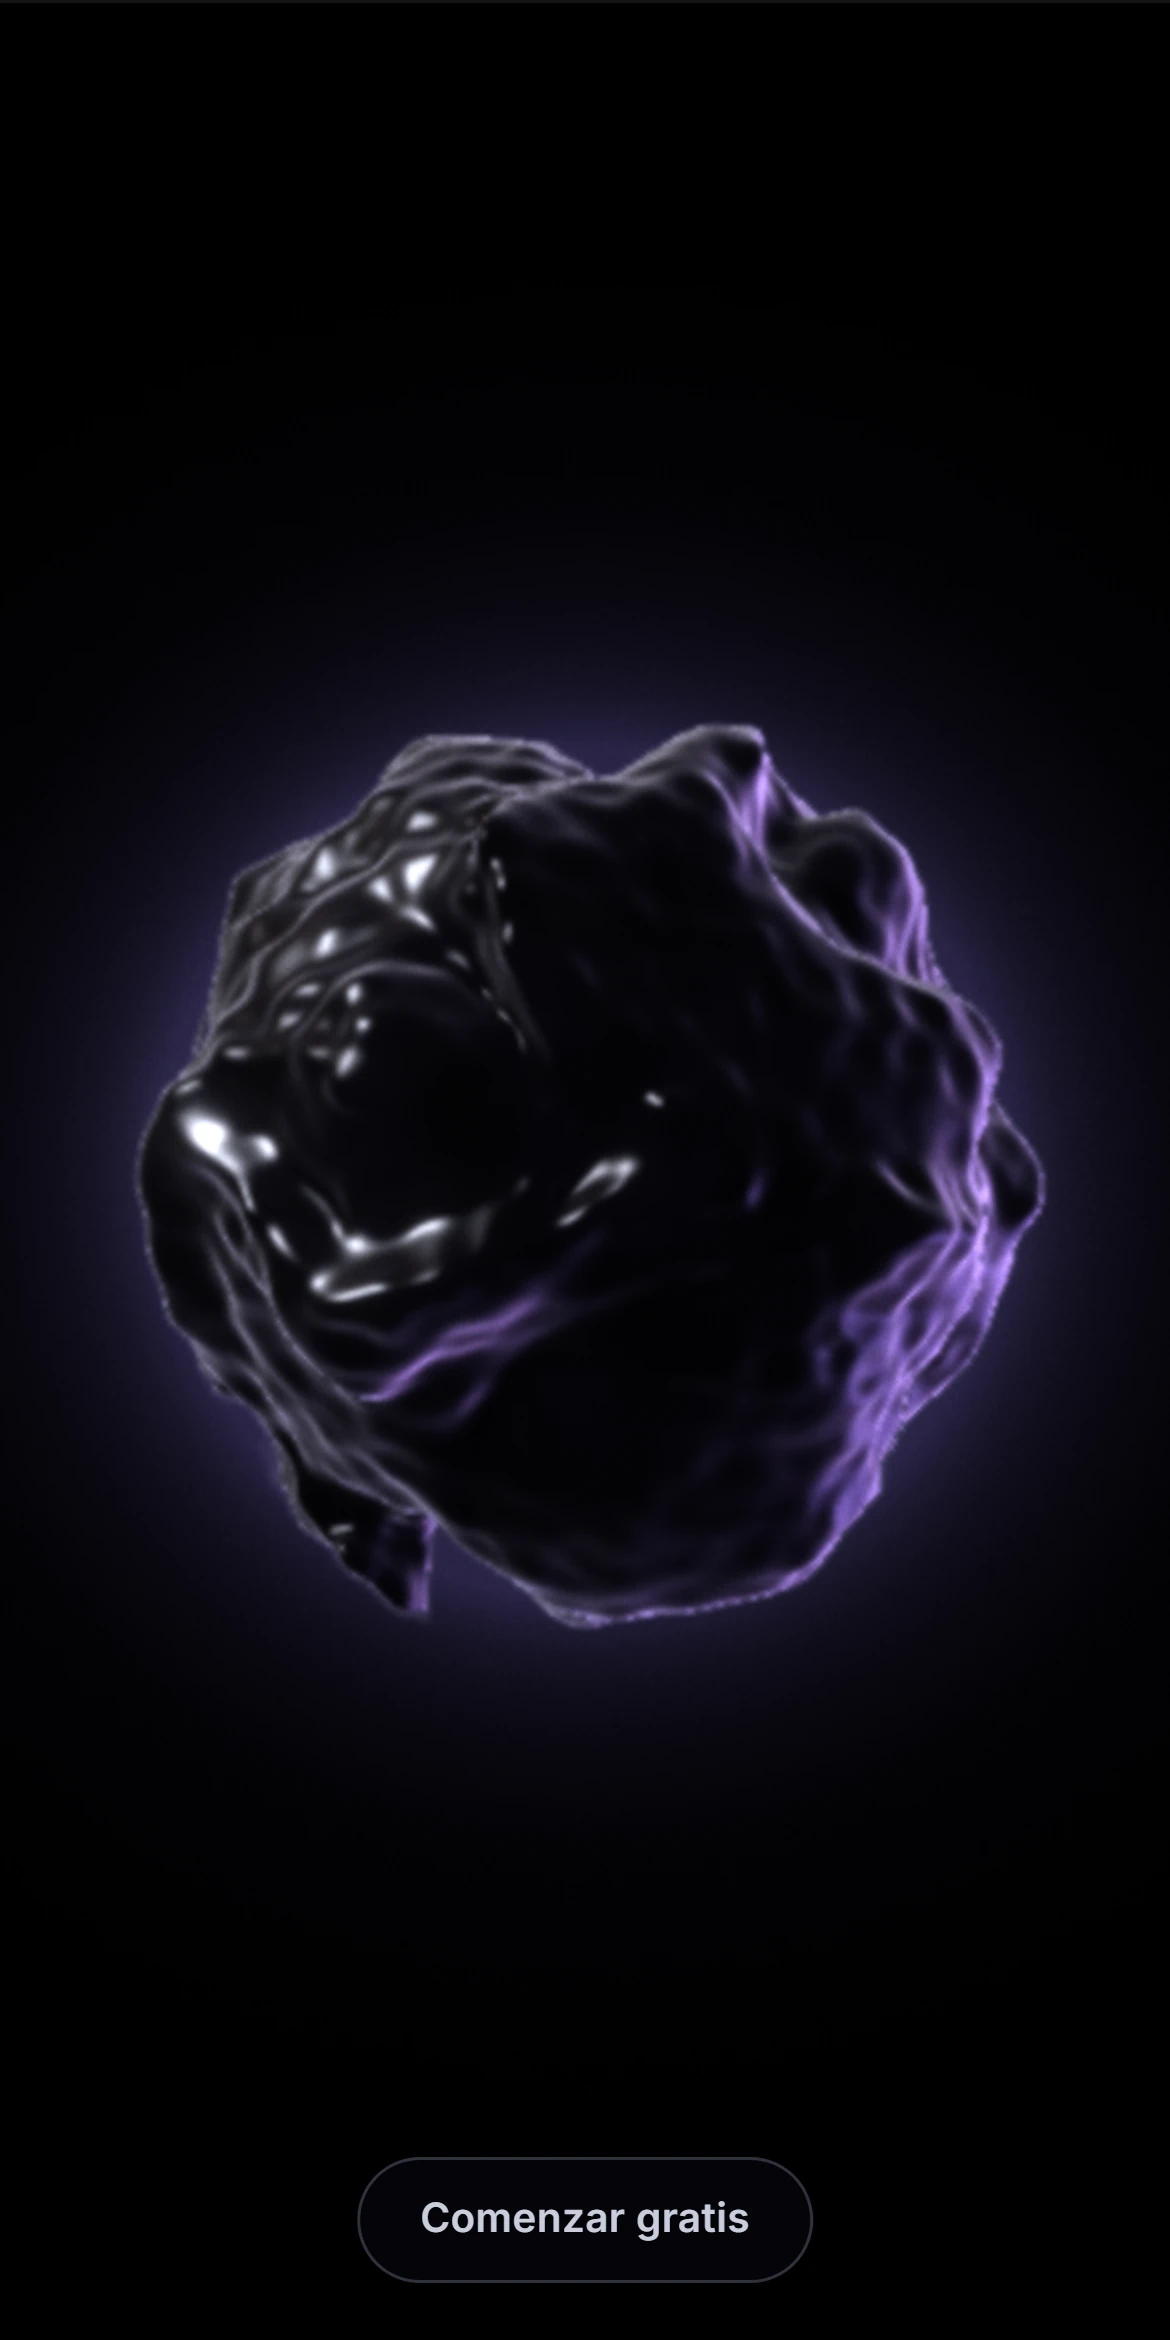
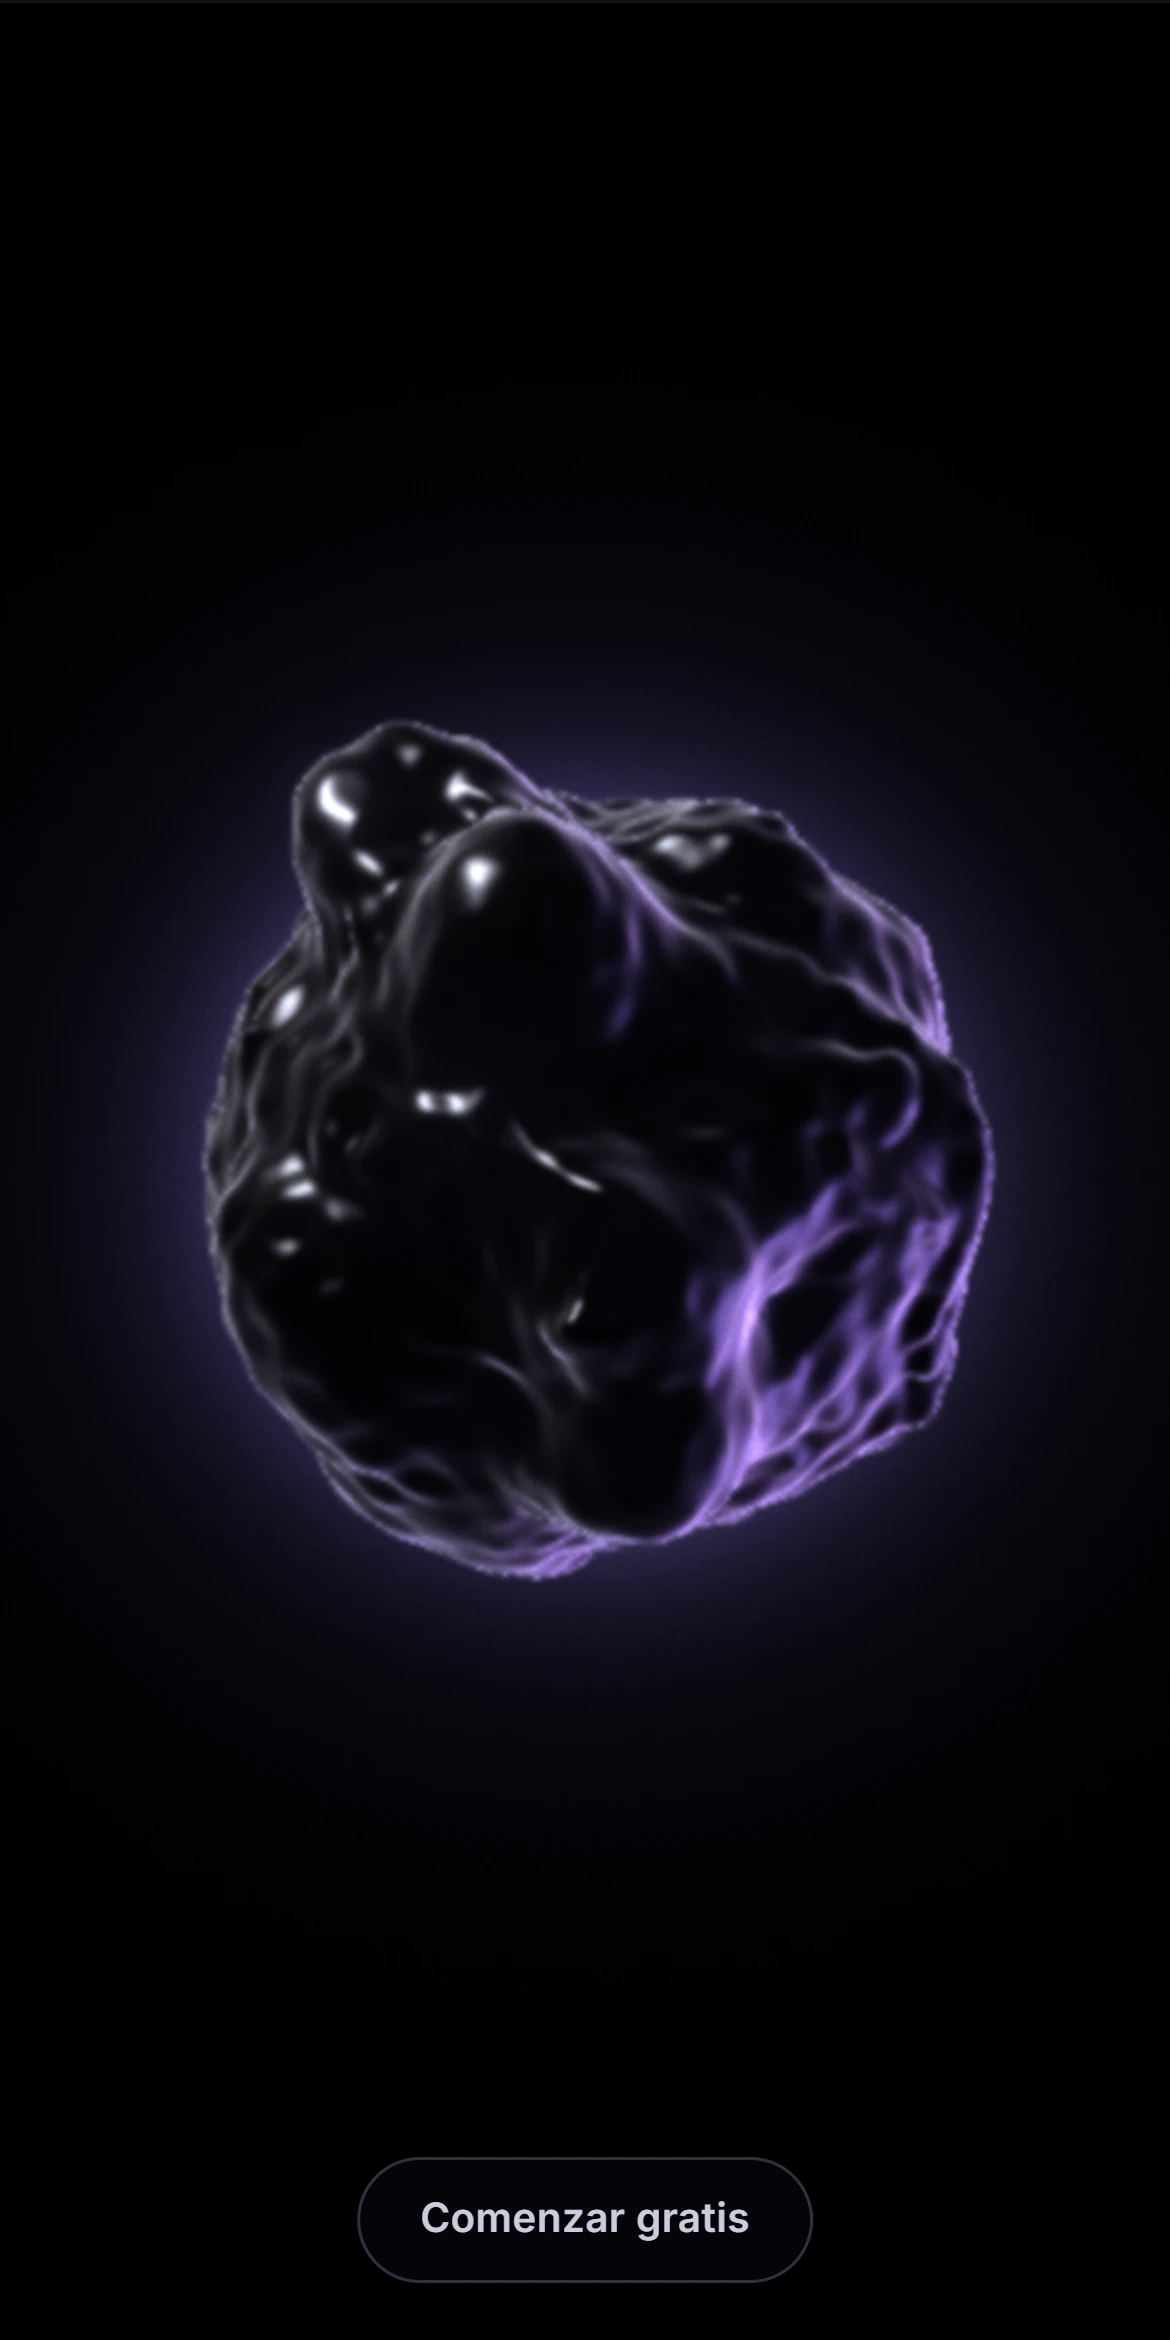
Portada, observacion del fundador: giro mas rapido y contorno inestable. La masa da una vuelta completa por ciclo mientras es masa (hasta ~100 grados por segundo, arranque y frenado suaves) que cierra justo al empezar la transformacion, asi la figura queda de frente sin desenrollarse (giroEn en cicl

Changed region(s): [[0.0923, 0.2808, 0.8923, 0.7175]]

diff --git a/web/app/ui/portada/masa/masa.test.ts b/web/app/ui/portada/masa/masa.test.ts
@@ -5,7 +5,7 @@
  */
 import { describe, expect, it } from "vitest";
 import { MedidorFps, nivelInicial, siguienteNivel, type PistasEquipo } from "./calidad";
-import { DURACION_CICLO, estadoEn, estadoEnCiclo, FASES, figuraEn, MOMENTOS, suavizar } from "./ciclo";
+import { DURACION_CICLO, estadoEn, estadoEnCiclo, FASES, figuraEn, giroEn, MOMENTOS, suavizar } from "./ciclo";
 import {
   distanciaCamara,
   ENVOLTURA_PIEL,
@@ -65,6 +65,29 @@ describe("ciclo", () => {
     expect(figuraEn(9.8 * 5.5)).toBe(0); // foco otra vez
   });
 
+  it("el giro da una vuelta por ciclo y deja la figura de frente", () => {
+    // Ventana del giro: regresa (1.9) + reposo (3.4) = 5.3 s.
+    // Inicio de la transformacion (tc = 3.4): u = (3.4 + 1.9) / 5.3 = 1 -> 2pi (de frente).
+    // Figura formada (tc = 6.6): u = 1 -> 2pi (de frente).
+    // Inicio del regreso (tc = 7.9): u = 0 -> 0 (de frente).
+    // Mitad de la ventana: tc = 7.9 + 2.65 = 10.55 -> tc = 0.75 del ciclo siguiente;
+    //   u = (0.75 + 1.9) / 5.3 = 0.5 -> suavizar(0.5) = 0.5 -> pi.
+    const frente = (a: number) => Math.min(a, 2 * Math.PI - a);
+    expect(frente(giroEn(FASES.reposo))).toBeCloseTo(0, 6);
+    expect(frente(giroEn(MOMENTOS.figuraFormada))).toBeCloseTo(0, 6);
+    expect(frente(giroEn(7.9))).toBeCloseTo(0, 6);
+    expect(giroEn(10.55)).toBeCloseTo(Math.PI, 6);
+  });
+
+  it("el giro es continuo (sin saltos, salvo el 2pi equivalente a 0)", () => {
+    for (let t = 0; t < DURACION_CICLO * 2; t += 0.01) {
+      const a = giroEn(t);
+      const b = giroEn(t + 0.01);
+      const salto = Math.abs(b - a);
+      expect(Math.min(salto, 2 * Math.PI - salto)).toBeLessThan(0.05);
+    }
+  });
+
   it("suavizar recorta fuera de [0, 1]", () => {
     expect(suavizar(-2)).toBe(0);
     expect(suavizar(3)).toBe(1);
@@ -92,8 +115,9 @@ describe("encuadre: centrada y al 80 % del lado menor", () => {
   it("nada se recorta: el limite es 96 % del lado menor y la piel cabe dentro aun en perspectiva", () => {
     // RADIO_LIMITE = 0.48 / 0.8 * 3.0 = 1.8 -> diametro 3.6 -> 3.6 / 3.0 * 0.8 = 0.96 del lado menor
     expect(RADIO_LIMITE).toBeCloseTo(1.8, 10);
-    // piel maxima 1.36 + 0.34 = 1.70; su silueta vista a distancia d se agranda
-    // r * d / sqrt(d^2 - r^2). Escritorio (d = 6.9976): 1.70 * 6.9976 / 6.7879 = 1.7525 < 1.8
+    // piel maxima 1.22 + 0.52 = 1.74 (los brotes pasan por un limite suave que
+    // nunca la supera); su silueta vista a distancia d se agranda
+    // r * d / sqrt(d^2 - r^2). Escritorio (d = 6.9976): 1.74 * 6.9976 / 6.7778 = 1.7964 < 1.8
     const r = RADIO_MASA + ENVOLTURA_PIEL;
     for (const [w, h] of [[1440, 836], [768, 1024], [390, 780]] as const) {
       const d = distanciaCamara(w, h);

diff --git a/web/app/ui/portada/masa/glsl.ts b/web/app/ui/portada/masa/glsl.ts
@@ -90,7 +90,7 @@ void main() {
 `;
 
 /** Ritmo de la materia: 1 era el de la muestra; la portada pide mas vida. */
-export const VELOCIDAD_MATERIA = 1.7;
+export const VELOCIDAD_MATERIA = 1.9;
 /** Radio de los tubos de liquido con que se dibuja cada trazo de la figura. */
 export const GROSOR_TUBO = 0.085;
 /** Medio ancho del trazo base (16 px de 512) en unidades de mundo. */
@@ -110,6 +110,7 @@ export function fragmentoLiquido(o: OpcionesLiquido): string {
 #define TUBO ${decimal(GROSOR_TUBO)}
 #define MEDIO_TRAZO ${decimal(MEDIO_TRAZO)}
 #define ALCANCE_FIGURA ${decimal(ALCANCE_FIGURA)}
+#define BROTES 10
 
 uniform float uTiempo;
 // 0 = la masa, 1 = la figura formada con la misma materia.
@@ -148,12 +149,34 @@ vec3 deformacion(vec3 q, float t) {
 #endif
 }
 
-// La piel en dos escalas: ondulacion grande + temblor fino y rapido.
+// Brotes: partes de la materia que salen del contorno, crecen, se retraen
+// y a veces se hunden un poco, cada una en su punto y a su ritmo. Es lo que
+// hace que la masa se lea inestable en toda su silueta.
+float brotes(vec3 q, float t) {
+  vec3 nq = normalize(q);
+  float suma = 0.0;
+  for (int i = 0; i < BROTES; i++) {
+    float fi = float(i);
+    vec3 dir = normalize(vec3(
+      sin(t * (0.23 + 0.05 * fi) + fi * 2.1),
+      cos(t * (0.19 + 0.04 * fi) + fi * 1.3),
+      sin(t * (0.17 + 0.06 * fi) + fi * 3.7)));
+    // Sale de golpe y se retrae; en la otra mitad del pulso se hunde un poco.
+    float pulso = sin(t * (0.9 + 0.17 * fi) + fi * 1.7);
+    float fuerza = pulso > 0.0 ? pulso * pulso : -0.3 * pulso * pulso;
+    suma += fuerza * pow(max(dot(nq, dir), 0.0), 34.0 + 12.0 * mod(fi, 3.0));
+  }
+  return suma * 0.62;
+}
+
+// La piel: ondulacion grande, temblor fino y rapido, y los brotes. El total
+// pasa por un limite suave (tanh) para no salir nunca de la ENVOLTURA.
 float piel(vec3 q, float t) {
   vec3 w = deformacion(q, t);
   float lenta = fbm(q * 0.62 + w * 0.55 + vec3(0.0, 0.0, t * 0.1));
-  float fina = snoise(q * 3.8 + w * 0.3 + vec3(t * 1.1, -t * 0.85, t * 0.6));
-  return lenta * 0.36 + fina * 0.02;
+  float fina = snoise(q * 3.8 + w * 0.3 + vec3(t * 1.3, -t * 1.0, t * 0.7));
+  float crudo = lenta * 0.27 + fina * 0.026 + brotes(q, t);
+  return ENVOLTURA * tanh(crudo / ENVOLTURA);
 }
 
 // Distancia en el plano de la figura al trazo (negativa dentro del trazo).

diff --git a/web/app/ui/portada/masa/motor.ts b/web/app/ui/portada/masa/motor.ts
@@ -47,7 +47,7 @@ import { RenderPass } from "three/examples/jsm/postprocessing/RenderPass.js";
 import { ShaderPass } from "three/examples/jsm/postprocessing/ShaderPass.js";
 import { UnrealBloomPass } from "three/examples/jsm/postprocessing/UnrealBloomPass.js";
 import { AJUSTES, MedidorFps, type NivelLiquido } from "./calidad";
-import { estadoEn, figuraEn, MOMENTOS } from "./ciclo";
+import { estadoEn, figuraEn, giroEn, MOMENTOS } from "./ciclo";
 import type { Aviso, ControlMotor, OpcionesMotor } from "./control";
 import { distanciaCamara, FOV_GRADOS, RADIO_MASA } from "./encuadre";
 import { calcularCampos, LADO_CAMPO } from "./figuras";
@@ -245,13 +245,14 @@ export async function montarMotor(nivel: NivelLiquido, o: OpcionesMotor): Promis
     ponerFigura(figuraEn(t));
     puntero.sx += (puntero.x - puntero.sx) * 0.05;
     puntero.sy += (puntero.y - puntero.sy) * 0.05;
-    // La masa gira con vida; la figura formada mira de frente.
+    // La masa da una vuelta completa por ciclo y se balancea; la vuelta
+    // cierra justo al transformarse, asi la figura formada mira de frente.
     const libre = 1 - e.mezcla;
     const tg = t * VELOCIDAD_MATERIA;
     giro.set(
-      Math.cos(tg * 0.13) * 0.36 * libre + puntero.sy * 0.18,
-      Math.sin(tg * 0.17) * 0.95 * libre + puntero.sx * 0.25,
-      Math.sin(tg * 0.09) * 0.25 * libre,
+      Math.cos(tg * 0.3) * 0.32 * libre + puntero.sy * 0.18,
+      giroEn(t) + Math.sin(tg * 0.37) * 0.25 * libre + puntero.sx * 0.25,
+      Math.sin(tg * 0.23) * 0.22 * libre,
     );
     matrizGiro.makeRotationFromEuler(giro);
     rotInv.setFromMatrix4(matrizGiro).transpose();

diff --git a/web/app/ui/portada/masa/ciclo.ts b/web/app/ui/portada/masa/ciclo.ts
@@ -68,6 +68,24 @@ export function figuraEn(t: number): number {
   return ciclo % FIGURAS.length;
 }
 
+/**
+ * Giro de la masa sobre su eje vertical (radianes, en [0, 2pi]). Da una
+ * vuelta completa por ciclo mientras es masa: arranca al empezar a
+ * regresar de la figura, cruza el reposo y cierra la vuelta justo cuando
+ * empieza la transformacion. Asi la figura siempre queda de frente y nunca
+ * hay que desenrollar el giro. Arranca y frena suave.
+ */
+export function giroEn(t: number): number {
+  const tc = ((t % DURACION_CICLO) + DURACION_CICLO) % DURACION_CICLO;
+  const inicioRegreso = FASES.reposo + FASES.disgrega + FASES.forma;
+  const ventana = FASES.regresa + FASES.reposo;
+  let u: number;
+  if (tc >= inicioRegreso) u = (tc - inicioRegreso) / ventana;
+  else if (tc < FASES.reposo) u = (tc + FASES.regresa) / ventana;
+  else u = 1;
+  return 2 * Math.PI * suavizar(u);
+}
+
 /** Instantes de referencia de un ciclo, para capturas y pruebas. */
 export const MOMENTOS = {
   reposo: FASES.reposo * 0.5,

diff --git a/web/app/ui/portada/masa/encuadre.ts b/web/app/ui/portada/masa/encuadre.ts
@@ -13,9 +13,9 @@
 export const FOV_GRADOS = 30;
 export const FRACCION_LADO_MENOR = 0.8;
 export const TAMANO_FIGURA = 3.0;
-export const RADIO_MASA = 1.36;
+export const RADIO_MASA = 1.22;
 /** Desplazamiento maximo de la piel sobre RADIO_MASA (ver glsl.ts). */
-export const ENVOLTURA_PIEL = 0.34;
+export const ENVOLTURA_PIEL = 0.52;
 export const RADIO_LIMITE = (0.48 / FRACCION_LADO_MENOR) * TAMANO_FIGURA;
 
 /**

diff --git a/docs/portada/INFORME.md b/docs/portada/INFORME.md
@@ -11,6 +11,8 @@ equipos débiles, sale de `particula-my-idea.html`.
 - Las figuras se forman con **la misma materia**, sin partículas: el
   líquido fluye, se estira y se vuelve la figura.
 - La materia se mueve **más rápido** y de forma **más agresiva**.
+- **Giro más rápido**, y un **contorno inestable**: partes de la materia
+  sobresalen de la silueta y luego vuelven a entrar.
 
 Las partículas quedan solo en el respaldo para equipos que no sostienen el
 líquido.
@@ -45,14 +47,26 @@ su teléfono.
 | `masa/figuras.ts` | Los trazos de las cinco figuras y su campo de distancia con signo (transformada exacta de Felzenszwalb y Huttenlocher, suavizada). |
 | `masa/respaldo.ts` | Respaldo de solo partículas en WebGL1 crudo, sin three.js. |
 | `masa/ciclo.ts`, `encuadre.ts`, `calidad.ts` | Lógica pura: ciclo, encuadre y niveles. |
-| `public/portada/masa-reposo.webp` | La imagen fija (24 KB), renderizada del propio motor en reposo. |
+| `public/portada/masa-reposo.webp` | La imagen fija (20 KB), renderizada del propio motor en reposo. |
 
 ### La materia
 
 **Masa.** Una piel sobre una esfera, con fbm y deformación de dominio en
 dos escalas: una ondulación grande y un temblor fino y rápido. Su reloj va
-×1,7 respecto de la muestra y la amplitud es mayor, para un movimiento más
-vivo y agresivo, sin salir del 96 % del lado menor.
+×1,9 respecto de la muestra.
+
+**Brotes.** Diez partes de la materia salen del contorno como lóbulos
+angostos, crecen, se retraen y a veces se hunden un poco, cada una en su
+dirección y a su ritmo. Así la masa se lee inestable en toda su silueta.
+El desplazamiento total pasa por un límite suave (`tanh`), de modo que
+nada sale del 96 % del lado menor. Para dejarles espacio, el radio base de
+la masa es algo menor: en reposo ocupa 68 % a 79 % según el instante.
+
+**Giro.** Da una vuelta completa por ciclo mientras es masa, hasta unos
+100°/s, con arranque y frenado suaves y un balanceo en los otros ejes. La
+vuelta cierra justo cuando empieza la transformación, así que la figura
+siempre queda de frente sin desenrollarse (`giroEn` en `ciclo.ts`, con
+prueba de continuidad).
 
 **Figura.** Cada trazo del icono se vuelve un tubo de líquido: un campo de
 distancia en 2D (textura de 256 × 256) se extruye en 3D con sección
@@ -114,9 +128,13 @@ Usan Playwright con Chromium sobre la GPU real (ANGLE/D3D11, Intel Iris Xe).
 ### Capturas (`capturas/`, build de producción)
 
 Tres anchos (390, 768 y 1440) por tres momentos del ciclo (reposo, mitad de
-la transformación y figura formada), más un mosaico con las otras cuatro
-figuras, el nivel bajo, el modo sin movimiento y el respaldo de
-partículas. También está la imagen del nivel fijo.
+la transformación y figura formada). Además:
+
+- `mosaico-brotes-reposo.webp`: seis instantes de la masa con sus brotes
+  entrando y saliendo.
+- `mosaico-figuras-y-respaldos.webp`: las otras cuatro figuras, el nivel
+  bajo, el modo sin movimiento y el respaldo de partículas.
+- `nivel-fija-1440.webp`: la imagen del nivel fijo.
 
 Geometría medida sobre los píxeles de cada captura, con el botón oculto
 para medir. Es la caja de lo que brilla, como fracción del lado menor del
@@ -125,20 +143,21 @@ hero:
 
 | Ancho | Momento | Nivel | Caja (ancho × alto) | Desvío del centro | Toca el borde |
 |---|---|---|---|---|---|
-| 390 | reposo | medio | 0,78 × 0,77 | 2 / 2 px | no |
-| 390 | transformación | medio | 0,67 × 0,77 | 10 / 2 px | no |
-| 390 | figura (foco) | medio | 0,74 × 0,83 | 1 / 1 px | no |
-| 768 | reposo | medio | 0,79 × 0,78 | 3 / 2 px | no |
-| 768 | transformación | medio | 0,67 × 0,77 | 26 / 6 px | no |
+| 390 | reposo | medio | 0,68 × 0,74 | 4 / 6 px | no |
+| 390 | transformación | medio | 0,70 × 0,76 | 10 / 10 px | no |
+| 390 | figura (foco) | medio | 0,74 × 0,82 | 0 / 1 px | no |
+| 768 | reposo | medio | 0,69 × 0,74 | 12 / 18 px | no |
+| 768 | transformación | medio | 0,70 × 0,76 | 22 / 21 px | no |
 | 768 | figura (foco) | medio | 0,74 × 0,82 | 1 / 1 px | no |
-| 1440 | reposo | alto | 0,80 × 0,82 | 6 / 7 px | no |
-| 1440 | transformación | alto | 0,70 × 0,80 | 21 / 12 px | no |
-| 1440 | figura (foco) | alto | 0,74 × 0,82 | 1 / 1 px | no |
+| 1440 | reposo | alto | 0,71 × 0,76 | 8 / 17 px | no |
+| 1440 | transformación | alto | 0,72 × 0,77 | 18 / 27 px | no |
+| 1440 | figura (foco) | alto | 0,74 × 0,82 | 1 / 0 px | no |
 
 La figura formada mide el 80 % del lado menor (82 % con el grosor de los
-tubos y su borde luminoso) y queda centrada a ±1 px. La masa es orgánica:
-en reposo mide 77 % a 82 %. A mitad de la transformación se abulta hacia
-un lado, y eso es lo que mueve el centro de su caja.
+tubos y su borde luminoso) y queda centrada a ±1 px. La masa y la
+transformación son asimétricas a propósito: el centro de la masa está
+exactamente en el centro del hero, pero su caja se corre unos píxeles hacia
+donde sale un brote o un lóbulo. Nada toca nunca el borde.
 
 **Consola: sin errores ni avisos** (página y workers) en los tres anchos,
 las cinco figuras, los niveles y el modo sin movimiento. La única
@@ -151,9 +170,9 @@ el lienzo del respaldo. No es un error de shader ni de JavaScript.
 | Perfil | Nivel elegido | fps (mediana) |
 |---|---|---|
 | Escritorio 1440 × 900 (Intel Iris Xe), ciclo en marcha | alto | 60 |
-| Escritorio, congelado en la transformación y en la figura | alto | 60 y 60 |
+| Escritorio, congelado en reposo con brotes y en la transformación | alto | 60 y 60 |
 | Móvil 390 × 844, dpr 3, CPU ×4, ciclo en marcha | medio | 60 |
-| Móvil, congelado en la transformación y en la figura | medio | 60 y 60 |
+| Móvil, congelado en reposo con brotes y en la transformación | medio | 60 y 60 |
 
 Cadena adaptativa comprobada:
 
@@ -173,7 +192,7 @@ Medido en el navegador, en bytes (gzip entre paréntesis):
 | JS inicial de la portada | 810 395 (221 468) | 806 398 (220 476), unos 4 KB menos |
 | Diferido, motor de la materia (three.js + motor + worker) | — | 590 759 (151 522) |
 | Diferido, respaldo de partículas | — | 24 626 (9 913) |
-| Diferido, imagen fija | — | 24 204 |
+| Diferido, imagen fija | — | 20 378 |
 
 three.js y el motor nunca entran en el bundle inicial. Se descargan después
 del evento `load`, en reposo y dentro del worker. Un equipo que cae a
@@ -187,9 +206,9 @@ Medianas de 3 corridas antes y de 5 (móvil) o 3 (escritorio) después:
 | | Puntuación | LCP | TBT | FCP | Speed Index | CLS |
 |---|---|---|---|---|---|---|
 | Móvil antes | 72 | 6,70 s | 216 ms | 1,66 s | 2,44 s | 0 |
-| Móvil después | **77** | 6,62 s | 54 ms | 1,51 s | 1,62 s | 0 |
+| Móvil después | **77** | 6,62 s | 44 ms | 1,51 s | 1,58 s | 0 |
 | Escritorio antes | 97 | 1,26 s | 18 ms | 0,41 s | 0,77 s | 0 |
-| Escritorio después | **97** | 1,23 s | 0 ms | 0,37 s | 0,41 s | 0 |
+| Escritorio después | **97** | 1,23 s | 0 ms | 0,33 s | 0,39 s | 0 |
 
 En esas corridas el Chrome de Lighthouse cargó el motor completo, en el
 worker. El LCP móvil de 6,6 s ya estaba antes y no es de la masa: el
